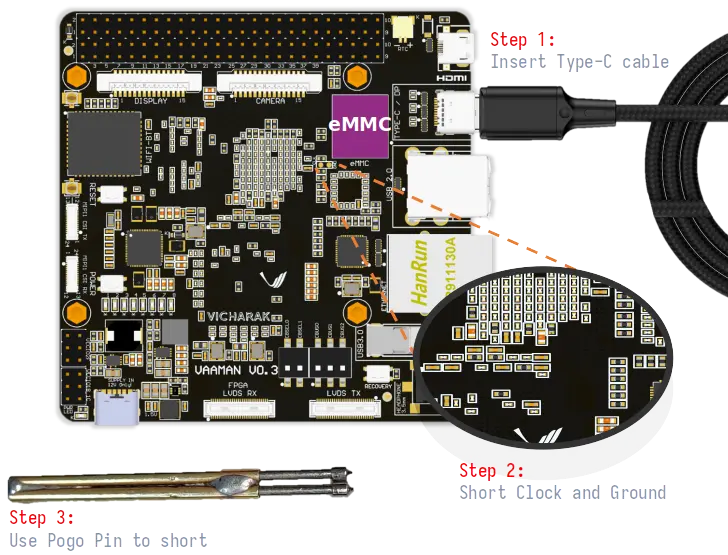
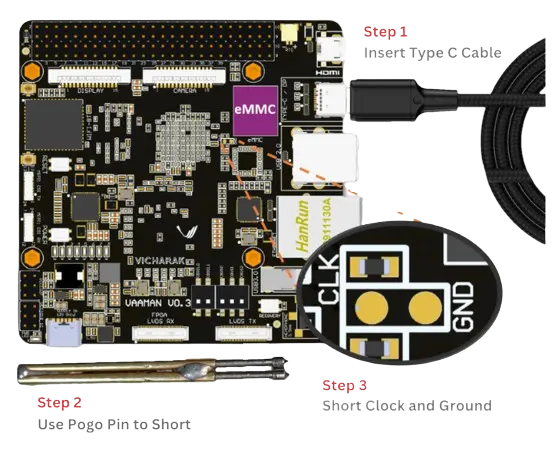
Vaaman : MaskRom Mode Method Pogo Pin ( Update Image and Steps )

diff --git a/source/vicharak_sbcs/vaaman/vaaman-maskrom-mode.rst b/source/vicharak_sbcs/vaaman/vaaman-maskrom-mode.rst
@@ -28,7 +28,7 @@ Pre-Requisites
 
 - Vicharak Vaaman board
 - Type-C Power Delivery Adapter
-- USB to TTL Serial Converter (FTDI or PL2303) (optional)
+- USB to UART Serial Converter (FTDI or PL2303) (optional)
 - 2 x USB-C to USB-A Male Cable
 - SD-card or NVMe drive (optional as eMMC is already provided)
 
@@ -50,10 +50,12 @@ Methods to enter Maskrom mode
 
     .. tab-item:: Pogo pins
 
-        .. image:: ../../_static/images/rk3399-vaaman/vaaman-maskrom-mode.webp
+        .. image:: /_static/images/rk3399-vaaman/vaaman-maskrom-mode.webp
             :width: 50%
 
-        1. Press the Pogo pin to the pads and continue to hold it.
+        1. Connect Power Delivery ``(PD)`` Cable to Vaaman and connect ``USB Type-C cable`` to the board. 
+         
+        2. Press the Pogo pin to the pads and continue to hold it.
 
         .. warning
 
@@ -61,15 +63,20 @@ Methods to enter Maskrom mode
             board. You may not be able to enter maskrom mode if other storage
             media is inserted.
 
-        2. Connect the USB-C cable to the board and power it on using the
-            power delivery.
+        3. Press ``Reset`` button on Vaaman.
 
-        3. Release the Pogo pin after the device enumerates on the host.
-            :ref:`Check out Linux Upgrade tool for more details <boot-into-maskrom-mode>`
+        4. Release the Pogo pin after the device enumerates on the host.
 
-        4. The device should now be in maskrom mode.
+        5. The device should now be in maskrom mode.
+	   You can check verify it by `Linux_Upgrade_Tool <http://github.com/vicharak-in/Linux_Upgrade_Tool>`_ whether device is in Maskrom or not using below command.  
 
-        .. dropdown:: Success Logs in dmesg
+	.. code-block::
+		
+		./upgrade_tool ld		
+
+        :ref:`Check out Linux Upgrade tool for more details <boot-into-maskrom-mode>`
+        
+	.. dropdown:: Success Logs in dmesg
 
             .. code-block::
 
@@ -95,7 +102,7 @@ Methods to enter Maskrom mode
 
         .. note::
             If you are not able to enter Maskrom mode on the first try then,
-            Reattach the Pogo pin and press the reset key.
+            Reattach the Pogo pin and press the reset key multiple times.
 
             Try this multiple times until you are able to enter Maskrom mode.
 
@@ -103,7 +110,7 @@ Methods to enter Maskrom mode
 
         1. Connect the USB-C cable to the board and your host computer.
 
-        2. Connect the USB to TTL serial converter to the board and your
+        2. Connect the USB to UART serial converter to the board and your
            host computer.
 
         .. image:: ../../_static/images/rk3399-vaaman/vaaman-serial-uart-pins.webp
@@ -132,7 +139,7 @@ Methods to enter Maskrom mode
 
         1. Connect the USB-C cable to the board and your host computer.
 
-        2. Connect the USB to TTL serial converter to the board and your
+        2. Connect the USB to UART serial converter to the board and your
            host computer.
 
         .. image:: ../../_static/images/rk3399-vaaman/vaaman-serial-uart-pins.webp

diff --git a/source/vicharak_sbcs/vaaman/vaaman-overview.rst b/source/vicharak_sbcs/vaaman/vaaman-overview.rst
@@ -21,7 +21,7 @@ Vaaman is useful to a wide range of users, these include but are not limited to:
 Block Diagram
 -------------
 
-.. image:: ../../_static/images/rk3399-vaaman/block_diagram.webp
+.. image:: ../../_static/images/block_diagram.webp
    :width: 100%
 
 Features
